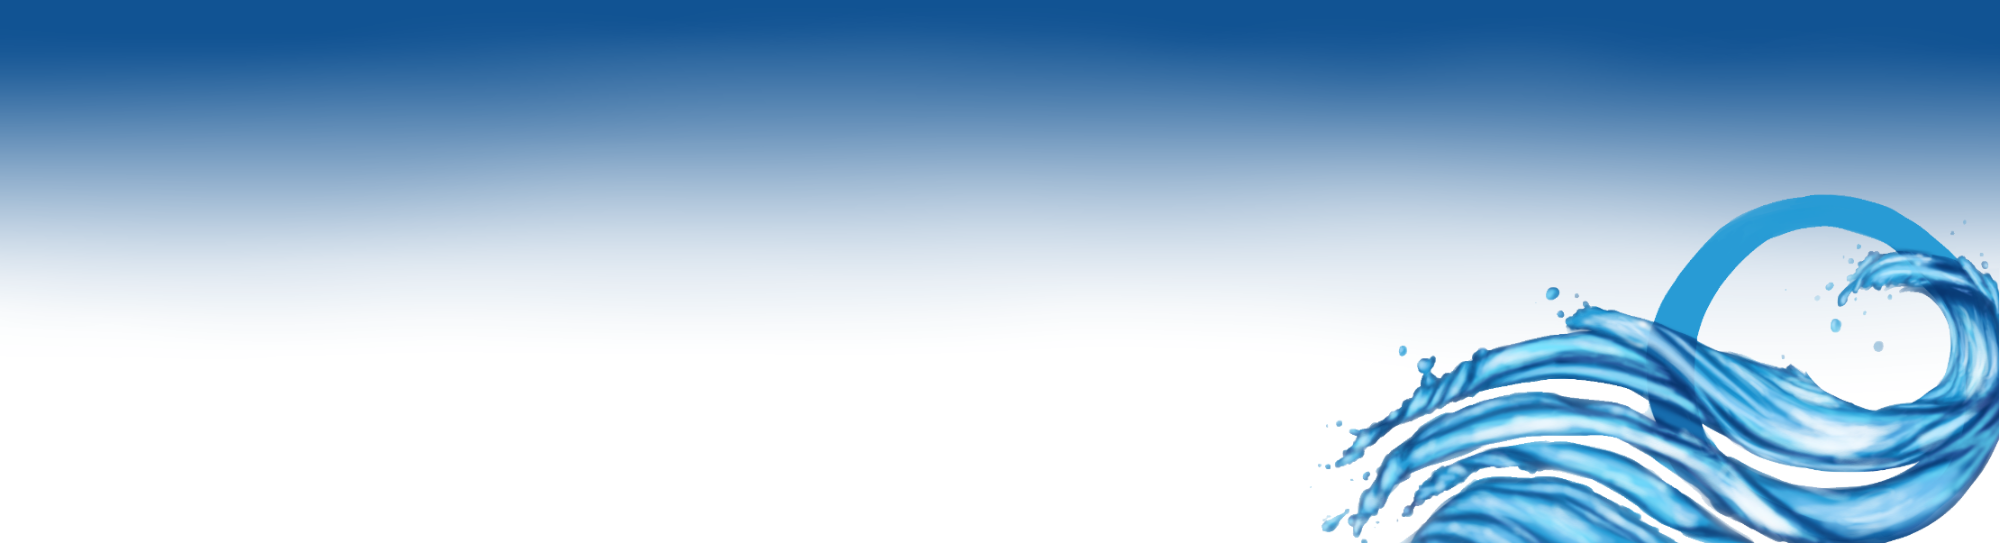
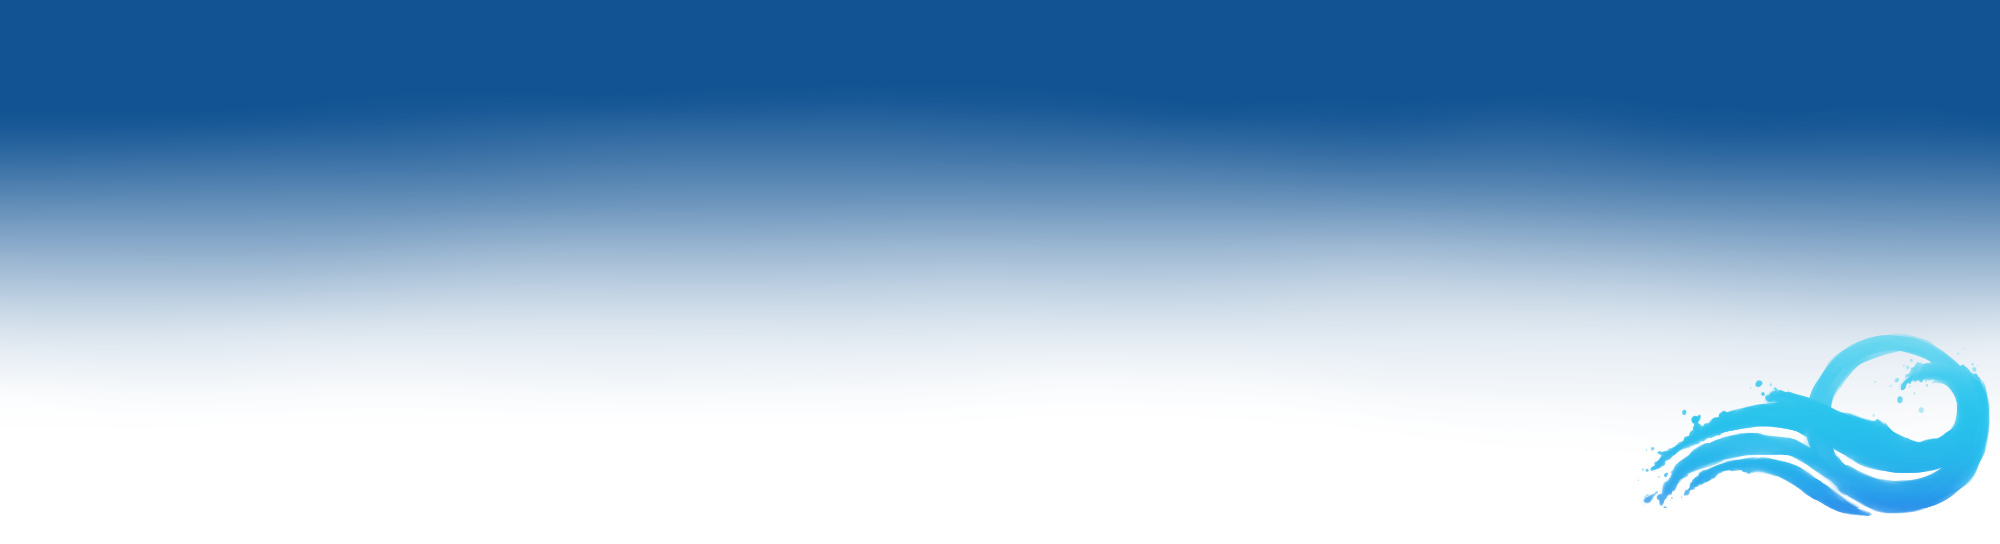
Signed-off-by: MechanicalAssociates <alavarrandomity@gmail.com>

diff --git a/MainCSS.css b/MainCSS.css
@@ -100,7 +100,6 @@ html, body {
       width: 100%;
       height: 100%;
       position: absolute;
-      background-color: #115393;
       padding-top: 15px;
 }
 
@@ -174,10 +173,6 @@ li {
     border: 1px solid;
 }
 
-/* ---------------------------------  Map Stuff --------------------------------- */
-
-
-
 /* ------------------------------- Start the Footer here ------------------------------- */
 /* Footer */
 #footer {
@@ -189,7 +184,6 @@ li {
       background: #000000;
       /* text-align: center; */
       color: #FFFFFF;
-      margin-top: 10px;
 }
 
 #footer a {

diff --git a/ContactUs.html b/ContactUs.html
@@ -133,7 +133,7 @@
               </p>
             </div>
       </div>
-         <div class="content" style="background-color: rgba(53, 87, 109, 0.7);">
+         <div class="content" style="background-color: rgba(53, 87, 109, 0);">
              <center><img src="PictureRefs/UnitedStates.gif" width="718" height="539" id="map" alt="Mechanical Associates Representative Map" usemap="#USA"></img></center>
          </div>
          <div>

diff --git a/TrainingVideos.html b/TrainingVideos.html
@@ -72,7 +72,7 @@
         </div>
     </section>
       <div id="banner">
-            <img src="PictureRefs/WorkFloor2.png"></img>
+            <img src="PictureRefs/WorkFloor3.png"></img>
         </div>
     <section id="main_content">
       <div class="social_feed">
